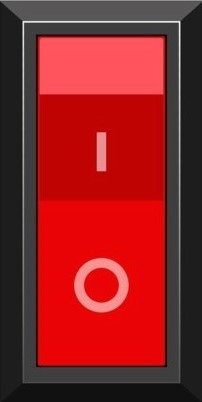
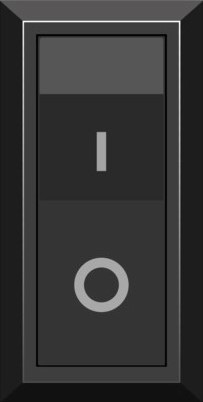
switch finished

diff --git a/src/components/inputs/Switch.tsx b/src/components/inputs/Switch.tsx
@@ -1,8 +1,24 @@
 import React, { useState } from 'react';
 import { Handle, Position } from 'reactflow';
-export default function Switch(props): React.ReactElement {
-  const handleStyle = {};
+interface ComponentProps {
+  id: string;
+  data: object;
+  type: string;
+  xPos: number;
+  yPos: number;
+  zIndex: number;
+  selected: boolean;
+  sourcePosition: string;
+  targetPosition: string;
+  dragging: boolean;
+  isConnectable: boolean;
+  dragHandle: string;
+}
+export default function Switch(props: ComponentProps): React.ReactElement {
   const [power, setPower] = useState(false);
+  const handleStyle = {
+    background: power ? 'red' : 'black',
+  };
   const togglePower = (): void => {
     setPower((v) => !v);
   };
@@ -12,6 +28,7 @@ export default function Switch(props): React.ReactElement {
         style={{
           background: 'transparent',
           border: 'none',
+          cursor: 'pointer',
         }}
         onClick={togglePower}
       >

diff --git a/src/App.tsx b/src/App.tsx
@@ -1,5 +1,4 @@
 import './App.css';
-
 import React, { useCallback } from 'react';
 import ReactFlow, { Background, useNodesState, useEdgesState, addEdge } from 'reactflow';
 import 'reactflow/dist/style.css';
